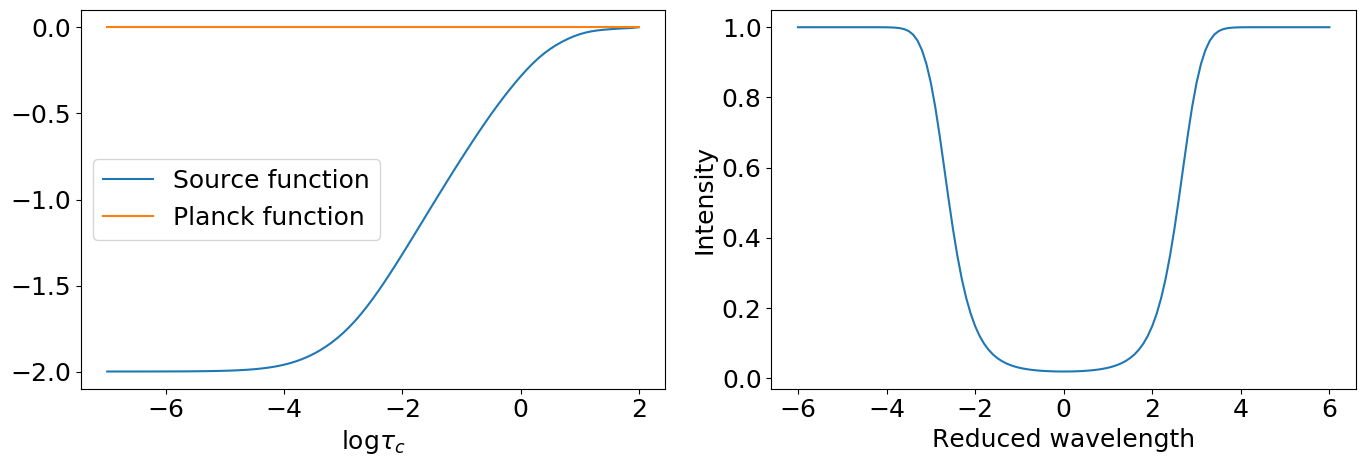
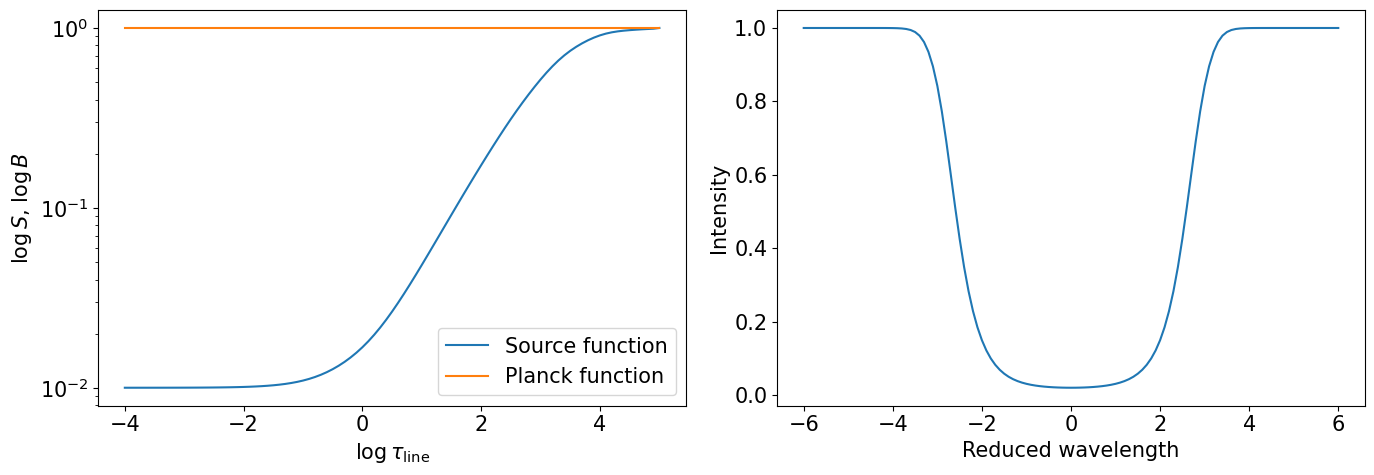
Very slight changes to make sure the notation is in line with the paper with Brandon

diff --git a/2lvl_nlte.py b/2lvl_nlte.py
@@ -4,9 +4,7 @@ import astropy.io.fits as fits
 from numba import jit
 import sys
 
-font = {'family' : 'normal',                                   
-        'weight' : 'normal',             
-        'size'   : 18} 
+font = {'size'   : 15} 
 
 import matplotlib
 matplotlib.rc('font', **font)  
@@ -166,6 +164,7 @@ eps = np.zeros(ND)
 eps[:] = 1E-4
 
 # The ratio between line and continuum opacity
+# Confusing as there is actually no continuum here, but this is just for scaling!
 line_ratio = 1E3
 
 # Wavelength grid, in Doppler width units.
@@ -233,6 +232,8 @@ for iter in range(0,200):
     if (max_change<1E-4):
         break
 
+print(S)
+
 # Calculate the full lambda operator 
 LL = calc_lambda_full(tau*line_ratio,mu,wmu,profile,wx)
 
@@ -265,30 +266,34 @@ plt.cla()
 plt.subplot(121)
 plt.pcolormesh(x_detailed,np.log10(tau),rf/spectra)
 plt.xlabel("Reduced wavelength")
-plt.ylabel("$\\mathcal{R}(\\tau,\lambda)/I_\lambda$")
+plt.ylabel("$\\mathcal{R}(\\tau,\\lambda)/I_\\lambda$")
 plt.title("Response function")
 plt.subplot(122)
 plt.pcolormesh(x_detailed,np.log10(tau),CF/spectra)
 plt.xlabel("Reduced wavelength")
-plt.ylabel("$\\mathcal{C}(\\tau,\lambda)/I_\lambda$")
+plt.ylabel("$\\mathcal{C}(\\tau,\\lambda)/I_\\lambda$")
 plt.title("Contribution function")
 plt.tight_layout()
-plt.savefig("2LVL_NLTE_RF_vs_CF.png",fmt='png',bbox_inches='tight')
+plt.savefig("2LVL_NLTE_RF_vs_CF.png",bbox_inches='tight')
 
 #plot more results 
 plt.clf()
 plt.cla()
+plt.figure(figsize=[14,5])
 plt.subplot(121)
-plt.plot(np.log10(tau),np.log10(S),label='Source function')
-plt.plot(np.log10(tau),np.log10(B),label='Planck function')
+plt.semilogy(np.log10(tau*line_ratio),S,label='Source function')
+plt.plot(np.log10(tau*line_ratio),B,label='Planck function')
 plt.legend()
-plt.xlabel("$\\log\\tau_c$")
+plt.xlabel("$\\log\\tau_{\\mathrm {line}}$")
+plt.ylabel("$\\log S$")
 plt.subplot(122)
 plt.plot(x_detailed,spectra)
 plt.xlabel("Reduced wavelength")
 plt.ylabel("Intensity")
 plt.tight_layout()
-plt.savefig("2LVL_NLTE.png",fmt='png',bbox_inches='tight')
+plt.savefig("2LVL_NLTE.png",bbox_inches='tight')
+
+
 
 
 
